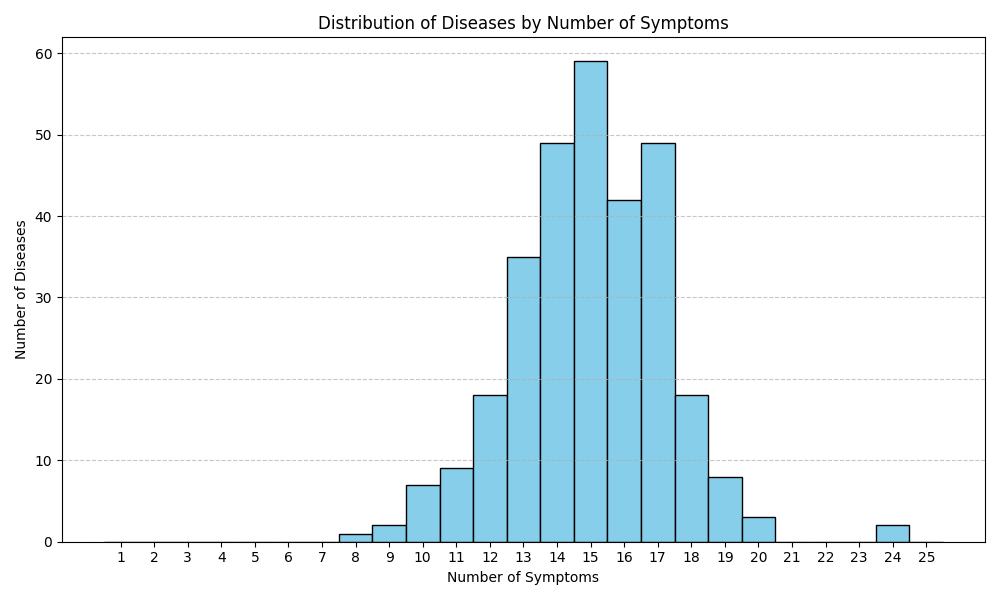
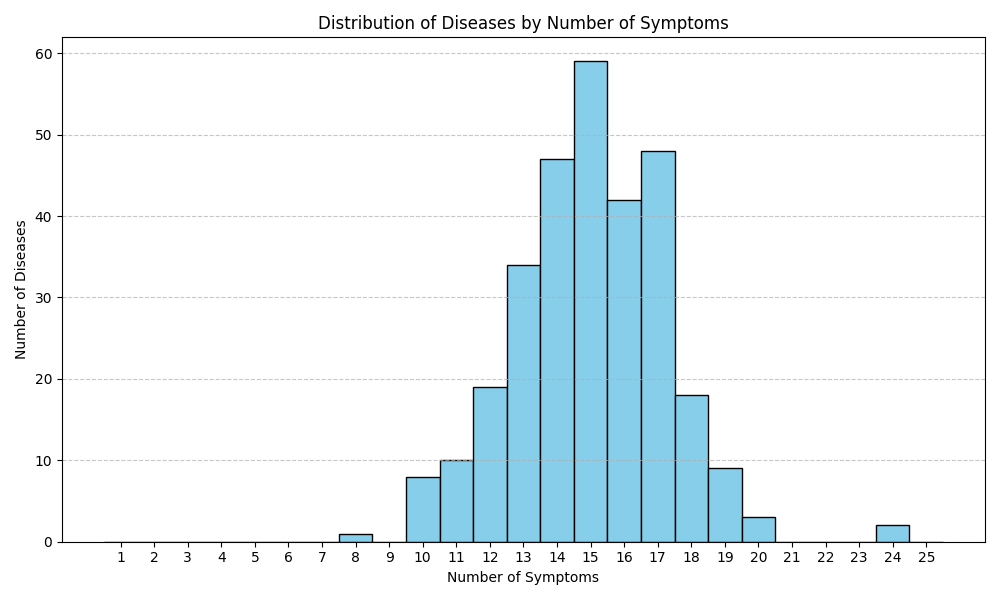
TAC-12: Extra dataset features

diff --git a/Step_4/symptom_severity.py b/Step_4/symptom_severity.py
@@ -1,0 +1,72 @@
+import openai
+import json
+import re
+import signal
+from dotenv import load_dotenv
+import os
+
+load_dotenv()
+
+# Initialize OpenAI API
+openai.api_key = os.getenv("OPENAI_API_KEY")
+
+# Handling timeouts
+class TimeoutException(Exception): pass
+
+def handler(signum, frame):
+    raise TimeoutException()
+
+# Set the signal handler and a 10-second alarm
+signal.signal(signal.SIGALRM, handler)
+
+def get_severity_score(code, symptoms):
+    total_score = 0
+    num_responses = 3  # Since we'll always assume a score of 5 if no valid score is returned
+
+    for _ in range(3):  # Ask the model three times
+        content = (f"Based on these symptoms {', '.join(symptoms)}, "
+                   "please assign an average severity score from 1-10 as your answer. Don't respond anything else and try to follow a Gaussian distribution")
+
+        signal.alarm(10)  # Set an alarm for 10 seconds
+        try:
+            response = openai.ChatCompletion.create(
+                model="gpt-3.5-turbo",
+                messages=[
+                    {"role": "system", "content": "You are a medical expert assistant. Your task is to provide a severity score for a given ICD 11 code and its associated symptoms."},
+                    {"role": "user", "content": content}
+                ]
+            )
+            full_response = response['choices'][0]['message']['content'].strip()
+            print(f"ICD 11 code: {code} - Response: {full_response}")  # Print the model's response
+            
+            # Use regex to extract numbers from the response
+            match = re.search(r'(\d+)', full_response)  # Looking for a single-digit or double-digit integer
+            result = int(match.group(0)) if match else 5  # Assign a score of 5 if no valid score is found
+            if result < 1 or result > 10:
+                raise ValueError("Invalid score range")
+            total_score += result
+
+        except (TimeoutException, ValueError):
+            total_score += 5  # If there's a timeout or value error, assume a score of 5 for that attempt
+        finally:
+            signal.alarm(0)  # Cancel the alarm
+
+    average_score = total_score / num_responses
+    return average_score
+
+# Load data from JSON
+with open("Datasets/step_3/icd_11_formated_data_dict.json", "r") as f:
+    data = json.load(f)
+
+severity_scores = {}
+
+for code, info in data.items():
+    symptoms = info['Symptoms']
+    score = get_severity_score(code, symptoms)
+    severity_scores[code] = round(score, 2)
+
+# Save the severity scores to a JSON file
+with open('Datasets/step_4/severity_scores.json', 'w') as f:
+    json.dump(severity_scores, f)
+
+print("Datasets/step_4/Severity scores saved to severity_scores.json!")

diff --git a/Step_4/incidence_rate.py b/Step_4/incidence_rate.py
@@ -1,0 +1,68 @@
+import openai
+import signal
+import pandas as pd
+import re
+from dotenv import load_dotenv
+import os
+
+load_dotenv()
+
+# Initialize OpenAI API
+openai.api_key = os.getenv("OPENAI_API_KEY")
+
+# Exception for handling timeouts
+class TimeoutException(Exception):
+    pass
+
+# Handler function for the alarm
+def handler(signum, frame):
+    raise TimeoutException()
+
+# Setting up the handler
+signal.signal(signal.SIGALRM, handler)
+
+def get_incidence_rate(disease_name):
+    content = (f"Please provide the incidence rate of {disease_name} in Europe "
+               "expressed in a percentage form from 0.00 - 100.")
+    
+    signal.alarm(10)  # Set an alarm for 10 seconds
+    try:
+        response = openai.ChatCompletion.create(
+            model="gpt-4",
+            messages=[
+                {"role": "system", "content": "You are a medical expert assistant. Your task is to provide the incidence rate of a given disease in Europe in a specific format."},
+                {"role": "user", "content": content}
+            ]
+        )
+        full_response = response['choices'][0]['message']['content'].strip()
+        
+        # Use regex to extract numbers from the response
+        match = re.search(r'(\d+(\.\d+)?)', full_response)
+        result = match.group(0) if match else "No numeric data found"
+
+    except TimeoutException:
+        result = "Timeout: Could not retrieve information in time."
+    finally:
+        signal.alarm(0)  # Cancel the alarm
+    return result
+
+# Read diseases from the Excel file using pandas
+file_path = "Datasets/step_1/Disease_Dataset_22_09_2023.xlsx"
+df = pd.read_excel(file_path)
+diseases = df['Disease'].tolist()
+
+# List to store results
+results = []
+
+# Fetch incidence rates for each disease
+for disease in diseases:
+    incidence_rate = get_incidence_rate(disease)
+    print(f"{disease}: {incidence_rate}")  # This line prints the output for each disease
+    results.append({
+        'Disease': disease,
+        'Incidence Rate in Europe': incidence_rate
+    })
+
+# Convert the results to a DataFrame and save to a new Excel file
+results_df = pd.DataFrame(results)
+results_df.to_excel("Datasets/step_4/Disease_Incidence_Rates.xlsx", index=False)

diff --git a/Step_3/replace_symptoms_with_icd_codes.py b/Step_3/replace_symptoms_with_icd_codes.py
@@ -3,7 +3,7 @@ import pandas as pd
 def main():
     # File paths
     draft_path = "Datasets/step_1/draft.xlsx"
-    symptoms_icd_path = "Datasets/step_2/symptoms_updated_ICD_Backup.xlsx"
+    symptoms_icd_path = "Datasets/step_2/symptoms_updated_ICD.xlsx"
     output_path = "Datasets/step_3/diseases_with_ICD_labels.xlsx"
 
     # Read the files into pandas DataFrames
@@ -23,23 +23,25 @@ def main():
         
         draft_df[col] = draft_df[col].map(symptoms_to_icd)
 
-    # Remove duplicate ICD codes in each row and shift ICD codes to the left to fill gaps
+    # Remove exact duplicate ICD codes in each row and shift ICD codes to the left to fill gaps
     rows_with_duplicates = 0
     for index, row in draft_df.iterrows():
         icd_codes = row[symptom_cols].dropna().tolist()
         
-        if len(icd_codes) != len(set(icd_codes)):
+        exact_duplicates = [icd for icd in icd_codes if icd_codes.count(icd) > 1]
+        
+        if exact_duplicates:
             rows_with_duplicates += 1
-            duplicated_codes = set([icd for icd in icd_codes if icd_codes.count(icd) > 1])
-            print(f"Warning: Disease '{row['Disease']}' had duplicated ICD codes: {', '.join(duplicated_codes)}")
+            print(f"Warning: Disease '{row['Disease']}' had exact duplicated ICD codes: {', '.join(set(exact_duplicates))}")
 
-        unique_icd_codes = list(dict.fromkeys(icd_codes))  # Removes duplicates while preserving order
+        unique_icd_codes = []
+        [unique_icd_codes.append(x) for x in icd_codes if x not in unique_icd_codes]  # Removes exact duplicates while preserving order
 
         # Fill the ICD codes back into the row, ensuring no gaps
         for i, col in enumerate(symptom_cols):
             draft_df.at[index, col] = unique_icd_codes[i] if i < len(unique_icd_codes) else None  # Fill with None if out of ICD codes
 
-    print(f"\nTotal number of rows with duplicates: {rows_with_duplicates}")
+    print(f"\nTotal number of rows with exact duplicates: {rows_with_duplicates}")
 
     # Write the resulting DataFrame back to Excel
     draft_df.to_excel(output_path, index=False)

diff --git a/Step_3/ICD_11_Processor.py b/Step_3/ICD_11_Processor.py
@@ -1,4 +1,5 @@
 import pandas as pd
+import json
 
 # Load the dataset
 df = pd.read_excel("Datasets/step_2/symptoms_updated_ICD.xlsx")
@@ -6,8 +7,9 @@ df = pd.read_excel("Datasets/step_2/symptoms_updated_ICD.xlsx")
 # Extract unique ICD 11 codes and sort them
 unique_icd_codes = sorted(df['ICD 11'].unique())
 
-# Create a JSON structure
+# Create JSON structures for both files
 json_list = []
+json_dict = {}
 
 for code in unique_icd_codes:
     # Filter rows with the current ICD 11 code and create a copy
@@ -16,25 +18,30 @@ for code in unique_icd_codes:
     # Consolidate the terms into "Similar terms"
     filtered_df.loc[:, 'Similar terms'] = filtered_df[['Suggested changes', 'Medical term 1', 'Medical term 2', 'Medical term 3', 'Medical term 4']].apply(lambda x: x.dropna().tolist(), axis=1)
     
-    # Calculate total frequency for the code
-    total_frequency = int(filtered_df['Frequency'].sum())  # Convert to native int
-    
     # Create a list of all symptoms and similar terms
     symptoms_list = filtered_df['Symptom'].tolist() + [term for sublist in filtered_df['Similar terms'].tolist() for term in sublist]
     
     # Remove duplicates from the symptoms list
     unique_symptoms = list(set(symptoms_list))
     
+    # Update the JSON dictionary with the ICD 11 code and its symptoms
+    json_dict[code] = {
+        "Symptoms": unique_symptoms
+    }
+    
+    # Append to the original JSON list
     for symptom in unique_symptoms:
         json_list.append({
             "ICD 11 Code": code,
-            "Symptom": symptom,
-            # "Frequency": total_frequency
+            "Symptom": symptom
         })
 
-# Save the JSON structure to a file
+# Save the JSON list structure to a file (original format)
 with open("Datasets/step_3/icd_11_GPT_formated_data.json", "w") as f:
-    import json
     json.dump(json_list, f, indent=4)
+
+# Save the JSON dictionary structure to a file (new format)
+with open("Datasets/step_3/icd_11_formated_data_dict.json", "w") as f:
+    json.dump(json_dict, f, indent=4)
 
 print("Processing complete!")

diff --git a/Step_4/check_duplicates.py b/Step_4/check_duplicates.py
@@ -1,0 +1,16 @@
+import pandas as pd
+
+# Load the dataset
+file_path = "Datasets/step_1/Disease_Dataset_22_09_2023.xlsx"
+df = pd.read_excel(file_path, engine='openpyxl')
+
+# Check for duplicates in the "ICD 11" column
+duplicates = df[df.duplicated(subset='ICD 11', keep=False)].sort_values(by="ICD 11")
+
+# Output the results
+if duplicates.shape[0] > 0:
+    print("There are duplicates in the 'ICD 11' column. Here are the duplicated values:")
+    for index, row in duplicates.iterrows():
+        print(f"Code {row['Code']}: {row['ICD 11']} - Disease: {row['Disease']}")
+else:
+    print("There are no duplicates in the 'ICD 11' column.")

diff --git a/ReadMe.md b/ReadMe.md
@@ -71,6 +71,19 @@ Folder Structure
     - Dataset augmentation
 
 
+<h2>Step 4: Extra dataset features </h2>
+
+    check_duplicates.py -> Check duplicate diseases
+
+    incidence_rate.py -> A simple script that gathers information about the diseases incidence rate from chatgpt
+
+    symptom_severity.py -> Script that gathers information about the diseases severity according to chatgpt parameters. Need normalization!
+
+
+<h3> Requirements: </h3>
+    - Each disease must be associated with an incidence rate across the europe region
+    - ICD code structure relatedness so the model understand that certain codes and their subcodes are more related than others.
+
 
 
 <h2>Extra documentation</h2>
